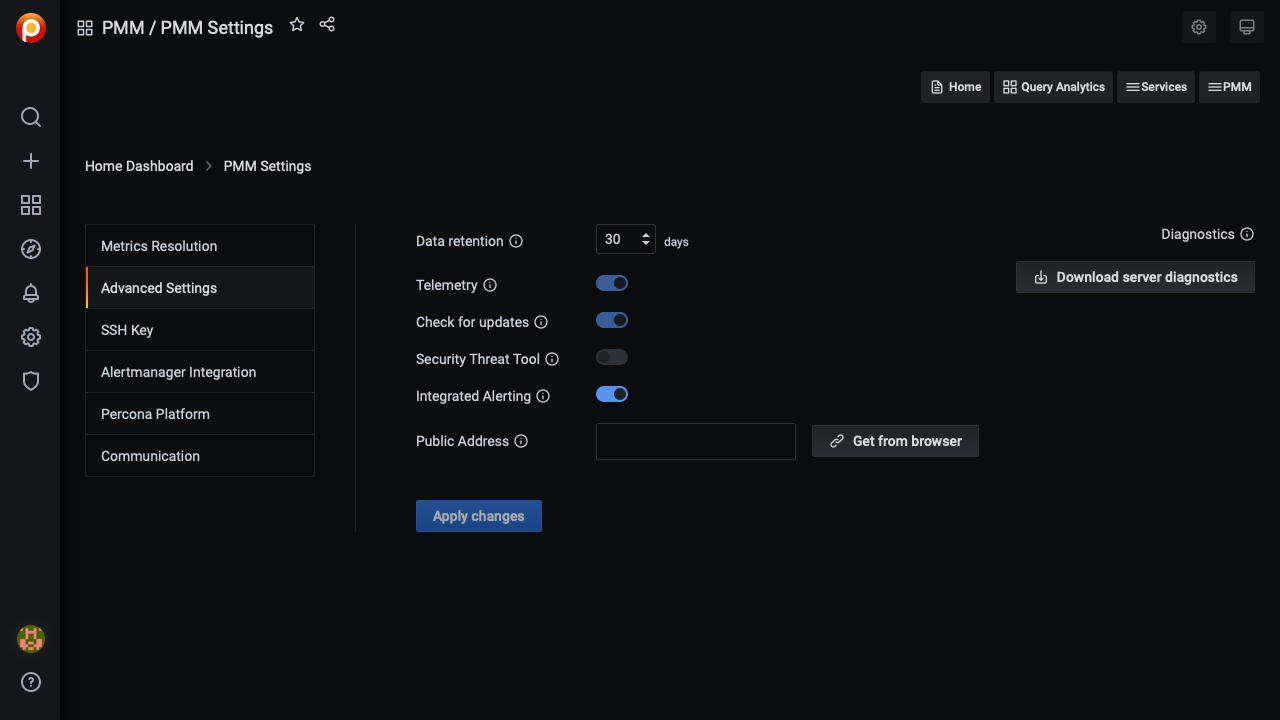
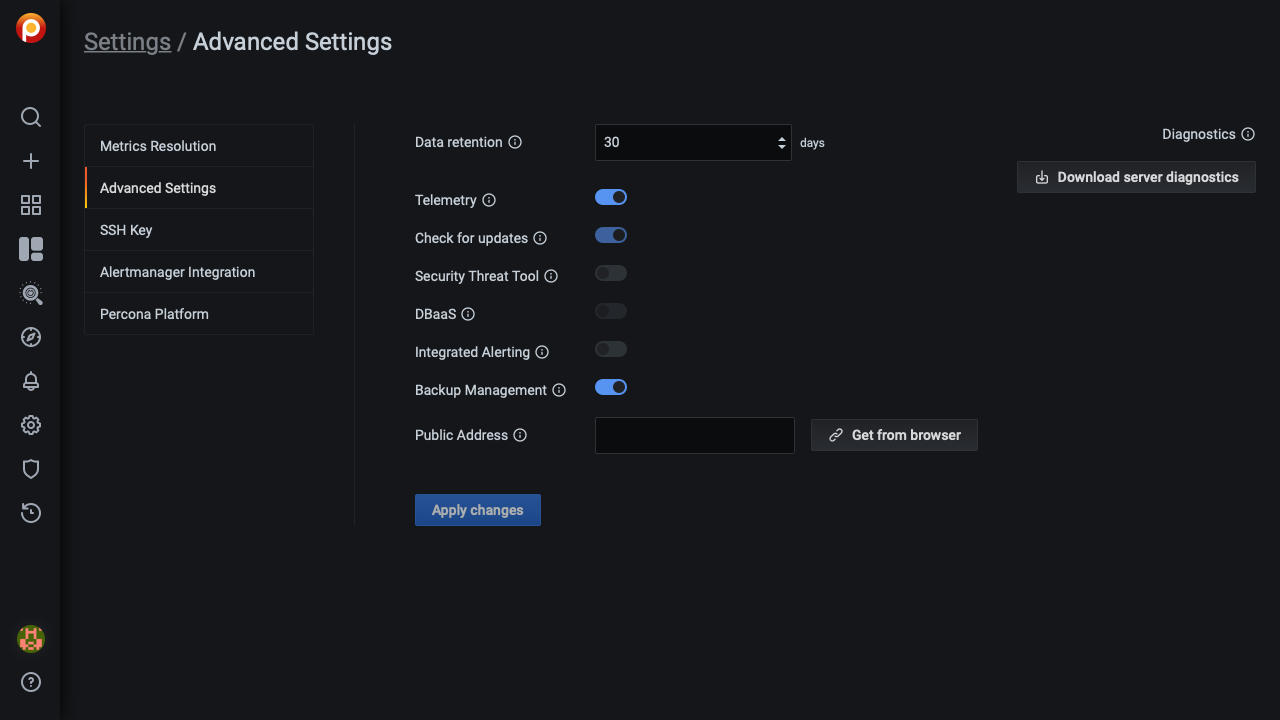
PMM-7762 backup (#437)
* PMM-7762

* PMM-7762

* PMM-7762

diff --git a/docs/details/interface.md b/docs/details/interface.md
@@ -23,11 +23,15 @@ The main menu is part of the Grafana framework and is visible on every page.
 | {{icon.cog}}        | Configuration        |
 | {{icon.shield}}     | Server Admin         |
 | {{icon.database}}   | DBaaS                |
+| {{icon.history}}    | Backup Management    | [Backup management and storage location configuration][BACKUP]
 
 [Folders]: https://grafana.com/docs/grafana/latest/dashboards/dashboard_folders/
 [PromQL]: https://grafana.com/blog/2020/02/04/introduction-to-promql-the-prometheus-query-language/
+[BACKUP]: ../how-to/backup.md
 
 > The DBaaS icon appears only if a server feature flag has been set.
+>
+> The Backup Management icon appears when *Backup Management* is activated in *PMM Settings-->Advanced Settings*.
 
 | Icon (Bottom)            | Description          |
 |:------------------------:| ---------            |

diff --git a/docs/how-to/backup.md b/docs/how-to/backup.md
@@ -1,0 +1,26 @@
+# Backup
+
+1. Navigate to *PMM Settings-->Advanced Settings*
+2. Activate *Backup Management*
+3. Click *Apply changes*
+4. In the left menu bar, click *{{icon.history}}-->Backup*
+
+    ![](../_images/PMM_Backup_Management.jpg)
+
+5. Click *Add*
+6. Fill in the form fields
+
+    ![](../_images/PMM_Backup_Management_Locations_Add_Storage_Location.jpg)
+
+    - *Name*:
+    - *Description*:
+    - *Type:*
+        - *S3*:
+        - *Local Client:*
+        - *Local Server:*
+    - *Endpoint:*
+    - *Bucket Name:*
+    - *Access Key:*
+    - *Secret Key:*
+
+7. Click *Add* to add the location or *Test* to test the connection.

diff --git a/docs/how-to/configure.md b/docs/how-to/configure.md
@@ -109,6 +109,12 @@ A read-only setting that shows whether DBaaS features are activated on this serv
 
 Enables [Integrated Alerting](../using/alerting.md) and reveals the [Communication](#communication) tab.
 
+### Backup Management {: #backup-management }
+
+> <b style="color:goldenrod">Caution</b> Backup functionality is a technical preview feature.
+
+Activates backup management.
+
 ### Public Address
 
 Public address for accessing DBaaS features on this server.
